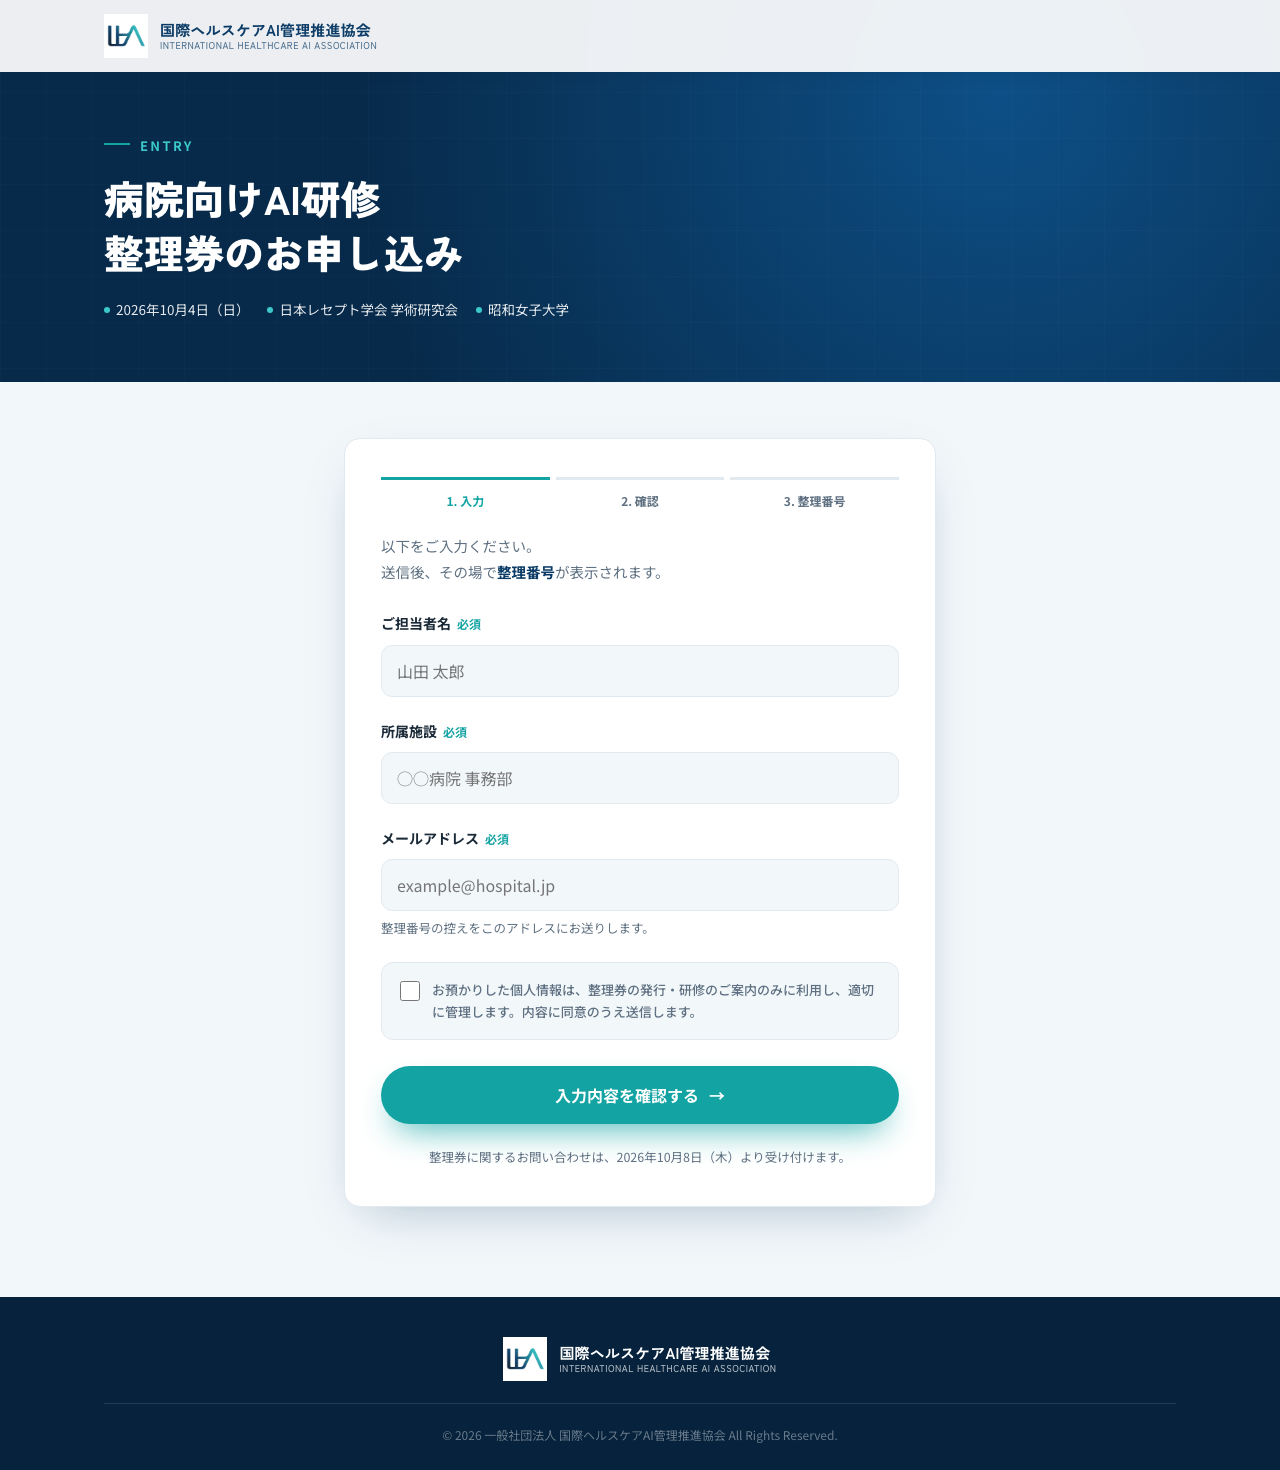
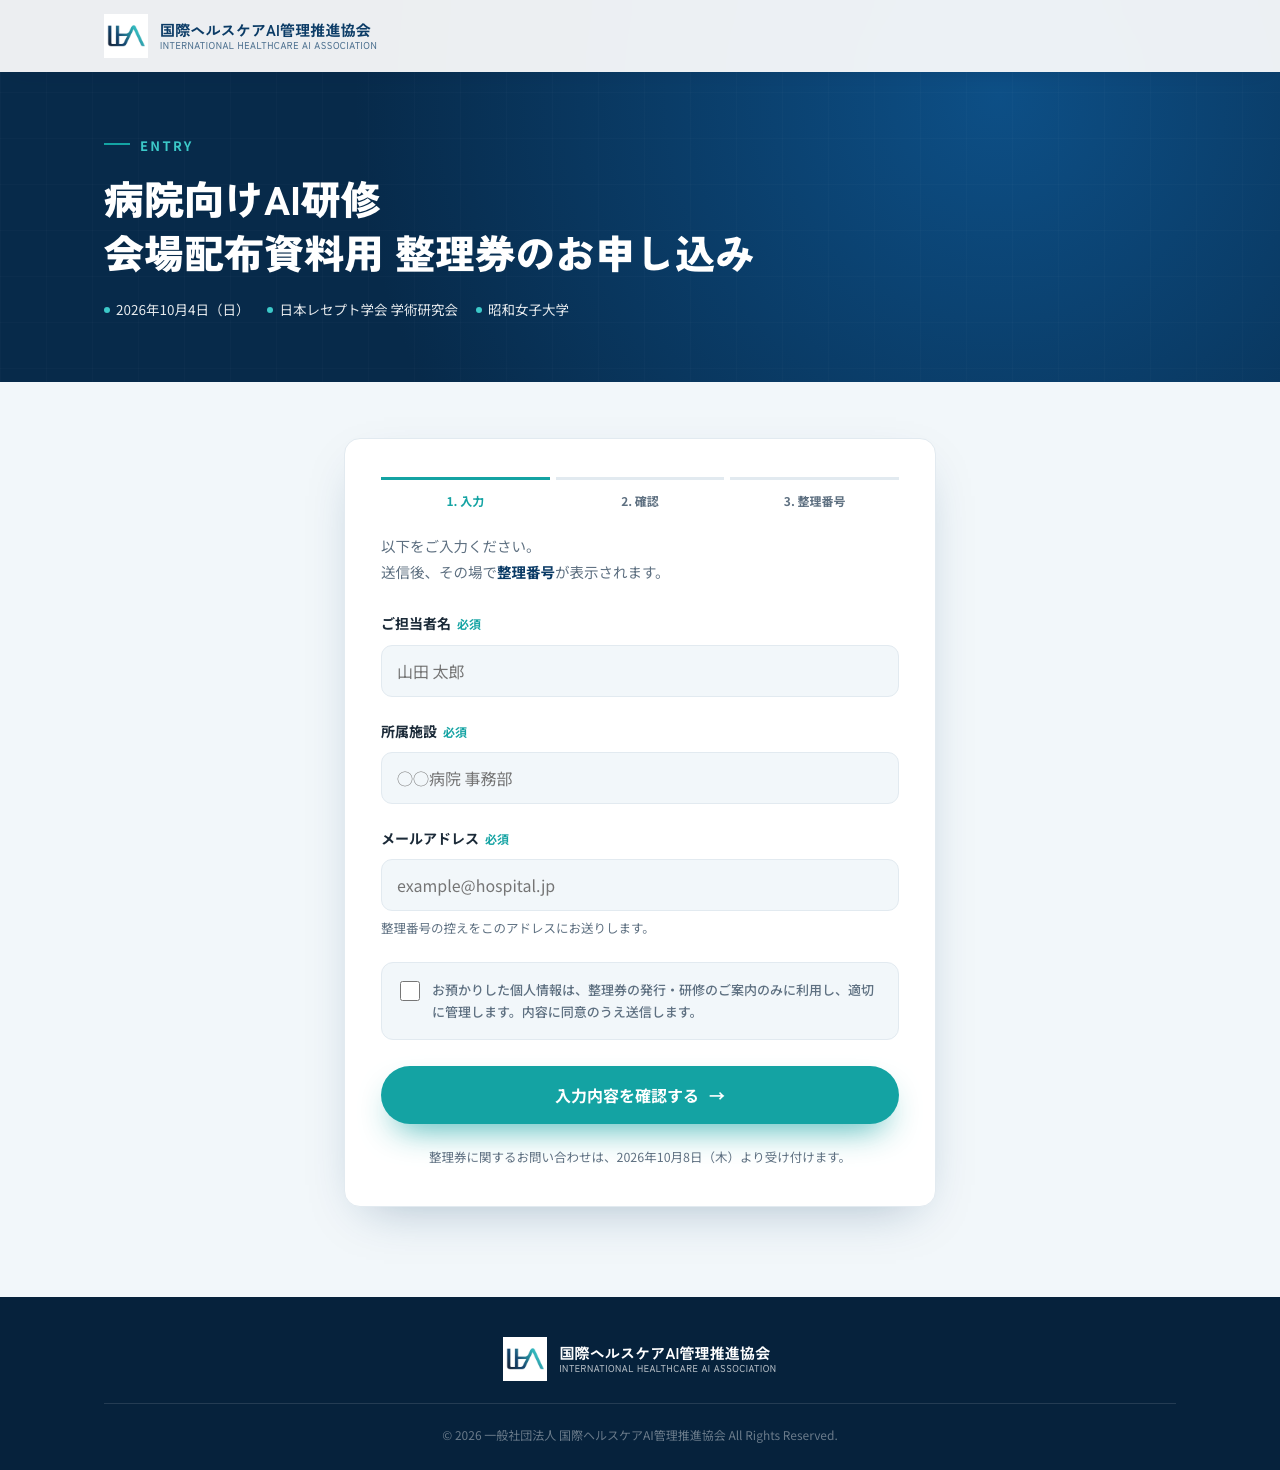
投影資料用ウェイティングリストと表記変更後の本番テストレポート・スクリーンショット・投影用QRを追加

Changed region(s): [[0.0625, 0.1531, 0.5938, 0.1837]]

diff --git a/scripts/live-prod-shots.js b/scripts/live-prod-shots.js
@@ -1,0 +1,88 @@
+// 本番 entry-live/・kanrishi-live/（投影資料用ウェイティングリスト）の画面撮影（docs/entry-waitlist-test-report.md）
+//   node scripts/live-prod-shots.js                                       … 送信しない範囲（シートへの書き込みなし）
+//   HOSPITAL_EMAIL=a@example.com KANRISHI_EMAIL=b@example.com node scripts/live-prod-shots.js
+//                                                                        … 両ページで1件ずつ送信（テストデータ消去が必要）
+const { chromium } = require('playwright');
+
+const BASE = 'https://www.iha-as.com';
+const OUT = 'docs/entry-screenshots';
+const PAGES = [
+  { path: '/entry-live/', key: 'hospital', email: process.env.HOSPITAL_EMAIL },
+  { path: '/kanrishi-live/', key: 'kanrishi', email: process.env.KANRISHI_EMAIL },
+];
+
+async function open(page, path) {
+  await page.goto(BASE + path + '?t=' + Date.now(), { waitUntil: 'networkidle' });
+}
+
+async function fill(page, email) {
+  await page.fill('#name', 'テスト 花子');
+  await page.fill('#facility', 'テスト病院');
+  await page.fill('#email', email);
+  await page.check('#agree');
+}
+
+async function shot(page, name) {
+  await page.waitForTimeout(700);
+  await page.evaluate(() => window.scrollTo(0, 0));
+  await page.screenshot({ path: `${OUT}/${name}.png`, fullPage: true });
+  console.log('saved', name + '.png');
+}
+
+async function send(page) {
+  await page.click('#nextBtn');
+  await page.click('#sendBtn');
+  await page.waitForSelector('#waitResult.visible, #closed.visible, #sendError.visible, #formError.visible', { timeout: 40000 });
+  return page.evaluate(() => {
+    const vis = id => document.getElementById(id).classList.contains('visible');
+    return {
+      panel: ['waitResult', 'closed'].find(vis) || (vis('formError') ? 'formError' : 'sendError'),
+      label: document.querySelector('#waitResult .ticket-label').textContent,
+      tag: document.querySelector('#waitResult .prog-tag').textContent,
+      pos: document.getElementById('waitPos').textContent,
+      code: document.getElementById('waitCode').textContent,
+      repeat: vis('waitRepeatBadge'),
+      error: document.getElementById('formError').textContent || document.getElementById('sendError').textContent,
+      focus: document.activeElement.id,
+    };
+  });
+}
+
+(async () => {
+  const browser = await chromium.launch();
+  const log = (k, v) => console.log(k.padEnd(26), typeof v === 'string' ? v : JSON.stringify(v));
+
+  for (const pg of PAGES) {
+    const name = `live-${pg.key}`;
+    for (const vp of [{ n: 'mobile', w: 390, h: 844 }, { n: 'mobile360', w: 360, h: 800 }, { n: 'desktop', w: 1280, h: 900 }]) {
+      const page = await browser.newPage({ viewport: { width: vp.w, height: vp.h } });
+      await open(page, pg.path);
+      log(`${name} ${vp.n} h-scroll`, String(await page.evaluate(() => document.documentElement.scrollWidth > innerWidth)));
+      if (vp.n === 'mobile360') { await page.close(); continue; }
+      await shot(page, `${name}-${vp.n}-01-input`);
+
+      if (vp.n === 'mobile') {
+        await fill(page, 'test@gmial.com');
+        log(`${name} gmial.com`, await send(page));
+        await shot(page, `${name}-mobile-02-error-typo`);
+      }
+
+      await fill(page, 'hanako@example.jp');
+      await page.click('#nextBtn');
+      await shot(page, `${name}-${vp.n}-03-confirm`);
+
+      if (vp.n === 'mobile' && pg.email) {
+        await open(page, pg.path);
+        await fill(page, pg.email);
+        log(`${name} submit`, await send(page));
+        await shot(page, `${name}-mobile-04-result`);
+        await open(page, pg.path);
+        await fill(page, pg.email);
+        log(`${name} repeat`, await send(page));
+        await shot(page, `${name}-mobile-05-result-repeat`);
+      }
+      await page.close();
+    }
+  }
+  await browser.close();
+})();

diff --git a/docs/entry-waitlist-test-report.md b/docs/entry-waitlist-test-report.md
@@ -1,0 +1,98 @@
+# 投影資料用ウェイティングリスト 動作確認レポート（＋表記変更後の全体確認）
+
+- 実施日：2026-09-30
+- 対象：本番 `https://www.iha-as.com/entry-live/`・`/kanrishi-live/`（投影用）、`/entry/`・`/kanrishi/`（配布用）（main `09a23eb`）
+- Apps Script：投影用 `entry-waitlist`（URL `AKfycbzUDeWK…`）、配布用 `entry-ticket`（URL `AKfycbwoKO0…`、変更なし）
+- 方法：Playwright（Chromium）で本番ページを操作・撮影（`scripts/live-prod-shots.js`・`scripts/kanrishi-prod-shots.js`・`scripts/entry-prod-shots.js`）。シート・メールは目視確認
+- 条件：Resend 未設定（`"resend":false`）→ 確認メールは Gmail（MailApp）で送信
+- 仕様・手順：[`entry-waitlist.md`](entry-waitlist.md)／配布用：[`entry-ticket.md`](entry-ticket.md)
+
+## 表記の変更
+
+配布用と投影用を区別しやすくするため、テスト途中で表記を変更した（`09a23eb`、Apps Script は両方とも「デプロイを管理 → 新バージョン」で URL 据え置き）。
+
+| | 変更前 | 変更後 |
+|---|---|---|
+| 配布用の見出し | 病院向けAI研修／整理券のお申し込み | 病院向けAI研修／会場配布資料用 整理券のお申し込み |
+| 配布用のメール件名 | 【整理番号 001】病院向けAI研修 整理券 | 【整理番号 001】病院向けAI研修 会場配布資料用 整理券 |
+| 投影用の見出し・ラベル・件名 | 会場参加用ウェイティングリスト | 投影資料用ウェイティングリスト |
+
+シートのタブ名は変更していない（Apps Script がタブ名で参照しているため）。
+
+## 結果サマリー
+
+| # | 確認項目 | 結果 | 備考 |
+|---|---|---|---|
+| 1 | 両 URL が別プロジェクトとして応答（`service: entry-ticket`／`entry-waitlist`） | OK | 表記変更の再デプロイ後も URL 変わらず |
+| 2 | 投影用・配布用の4ページともスマホ幅（390px／360px）・PC（1280px）で横スクロールなし | OK | |
+| 3 | 見出しが新しい表記で表示され、スマホ幅で不自然な改行がない | OK | |
+| 4 | 投影用：`test@gmial.com` →「@gmail.com の誤りでは…」、メール欄にフォーカス | OK | 両ページ |
+| 5 | 投影用・病院向け送信 →「投影資料用ウェイティングリスト 1番目」＋確認コード＋「病院向けAI研修」タグ | OK | 1番目 / 3CHC |
+| 6 | 投影用・管理士送信 → 同上＋「医療AIガバナンス管理士」タグ | OK | 1番目 / VCEH |
+| 7 | 投影用：同じメールで再送信 → 同じ受付順・確認コード＋「登録済み」 | OK | 両ページ |
+| 8 | 投影用の完了画面・入力画面に優先の案内（会場配布資料の QR からの申込が優先） | OK | |
+| 9 | 投影用の登録は投影用タブにだけ入り、配布用の件数は変わらない | OK | 投影用の送信後も配布用 `used:0`／`waiting:0` |
+| 10 | 配布用・管理士：未入力・形式不正・打ち間違い・存在しないドメインのエラー | OK | |
+| 11 | 配布用・管理士送信 → `K-001`＋確認コード、再送信で同じ番号＋「発行済み」 | OK | K-001 / FETD |
+| 12 | 配布用・病院向け送信 → `001`＋確認コード | OK | 001 / N7HQ |
+| 13 | 確認メール4通が新しい件名で届く | OK | 目視確認 |
+| 14 | テストデータ消去 → 配布用 `used:0`／`waiting:0`、投影用 `registered:0` | OK | |
+
+配布用のキャンセル待ちは画面・処理とも変更していないため、今回は再テストしていない（[`kanrishi-test-report.md`](kanrishi-test-report.md) で確認済み）。
+
+## テスト手順と結果
+
+### 1. 投影用（`/entry-live/`・`/kanrishi-live/`）
+
+`HOSPITAL_EMAIL=pharnewton@gmail.com KANRISHI_EMAIL=grossescrown@gmail.com node scripts/live-prod-shots.js`
+
+| 画面 | 病院向け | 管理士 |
+|---|---|---|
+| 入力（スマホ） | ![](entry-screenshots/live-hospital-mobile-01-input.png) | ![](entry-screenshots/live-kanrishi-mobile-01-input.png) |
+| 打ち間違いドメイン | ![](entry-screenshots/live-hospital-mobile-02-error-typo.png) | ![](entry-screenshots/live-kanrishi-mobile-02-error-typo.png) |
+| 確認 | ![](entry-screenshots/live-hospital-mobile-03-confirm.png) | ![](entry-screenshots/live-kanrishi-mobile-03-confirm.png) |
+| 登録完了 | ![](entry-screenshots/live-hospital-mobile-04-result.png) | ![](entry-screenshots/live-kanrishi-mobile-04-result.png) |
+| 同じメールで再送信 | ![](entry-screenshots/live-hospital-mobile-05-result-repeat.png) | ![](entry-screenshots/live-kanrishi-mobile-05-result-repeat.png) |
+| 入力（PC） | ![](entry-screenshots/live-hospital-desktop-01-input.png) | ![](entry-screenshots/live-kanrishi-desktop-01-input.png) |
+| 確認（PC） | ![](entry-screenshots/live-hospital-desktop-03-confirm.png) | ![](entry-screenshots/live-kanrishi-desktop-03-confirm.png) |
+
+### 2. 配布用（`/entry/`・`/kanrishi/`）
+
+`node scripts/entry-prod-shots.js`（送信しない範囲）と
+`SUBMIT_EMAIL=grossescrown@gmail.com HOSPITAL_EMAIL=pharnewton@gmail.com node scripts/kanrishi-prod-shots.js`
+
+| 管理士 K-001 / FETD | 管理士 再送信 | 病院向け 001 / N7HQ |
+|---|---|---|
+| ![](entry-screenshots/kanrishi-mobile-06-ticket.png) | ![](entry-screenshots/kanrishi-mobile-06b-ticket-repeat.png) | ![](entry-screenshots/kanrishi-regression-entry-ticket.png) |
+
+入力・エラー・確認画面の撮り直し：`mobile-0*.png`・`desktop-0*.png`（病院向け）、`kanrishi-{mobile,desktop}-0*.png`（管理士）。
+
+### 3. 確認メール
+
+| 宛先 | 件名 |
+|---|---|
+| pharnewton@gmail.com | 【整理番号 001】病院向けAI研修 会場配布資料用 整理券｜国際ヘルスケアAI管理推進協会 |
+| pharnewton@gmail.com | 【投影資料用ウェイティングリスト 1番目】病院向けAI研修｜国際ヘルスケアAI管理推進協会 |
+| grossescrown@gmail.com | 【整理番号 K-001】医療AIガバナンス管理士 会場配布資料用 整理券｜国際ヘルスケアAI管理推進協会 |
+| grossescrown@gmail.com | 【投影資料用ウェイティングリスト 1番目】医療AIガバナンス管理士｜国際ヘルスケアAI管理推進協会 |
+
+### 4. 後片付け
+
+配布用の整理券タブ（2つ）は 001・K-001 の行の C〜J 列を消去、投影用タブ（2つ）は2行目以降を行削除。Web アプリ URL の応答で配布用 `used:0`／`waiting:0`、投影用 `registered:0` を確認。
+
+## QR コード
+
+`docs/entry-qr/` に4種（レベル H・1200px、読み取り確認済み）。
+
+| ファイル | URL | 用途 |
+|---|---|---|
+| `entry-qr.png`／`.svg` | `https://www.iha-as.com/entry/` | 配布資料・病院向けAI研修 |
+| `kanrishi-qr.png`／`.svg` | `https://www.iha-as.com/kanrishi/` | 配布資料・医療AIガバナンス管理士 |
+| `entry-live-qr.png`／`.svg` | `https://www.iha-as.com/entry-live/` | 投影資料・病院向けAI研修 |
+| `kanrishi-live-qr.png`／`.svg` | `https://www.iha-as.com/kanrishi-live/` | 投影資料・医療AIガバナンス管理士 |
+
+## 当日までの残作業
+
+- 配布資料・投影スライドに QR を配置（QR の近くに制度名と「会場配布資料用」「投影資料用」を明記）
+- 受付スタッフへ連絡順を共有（配布用キャンセル待ち → 投影資料用ウェイティングリスト。投影用は配布用と同じメールがないか確認してから連絡）
+- 10/4 開場前に4ページで1件ずつテスト → データ消去 → 受付開始
